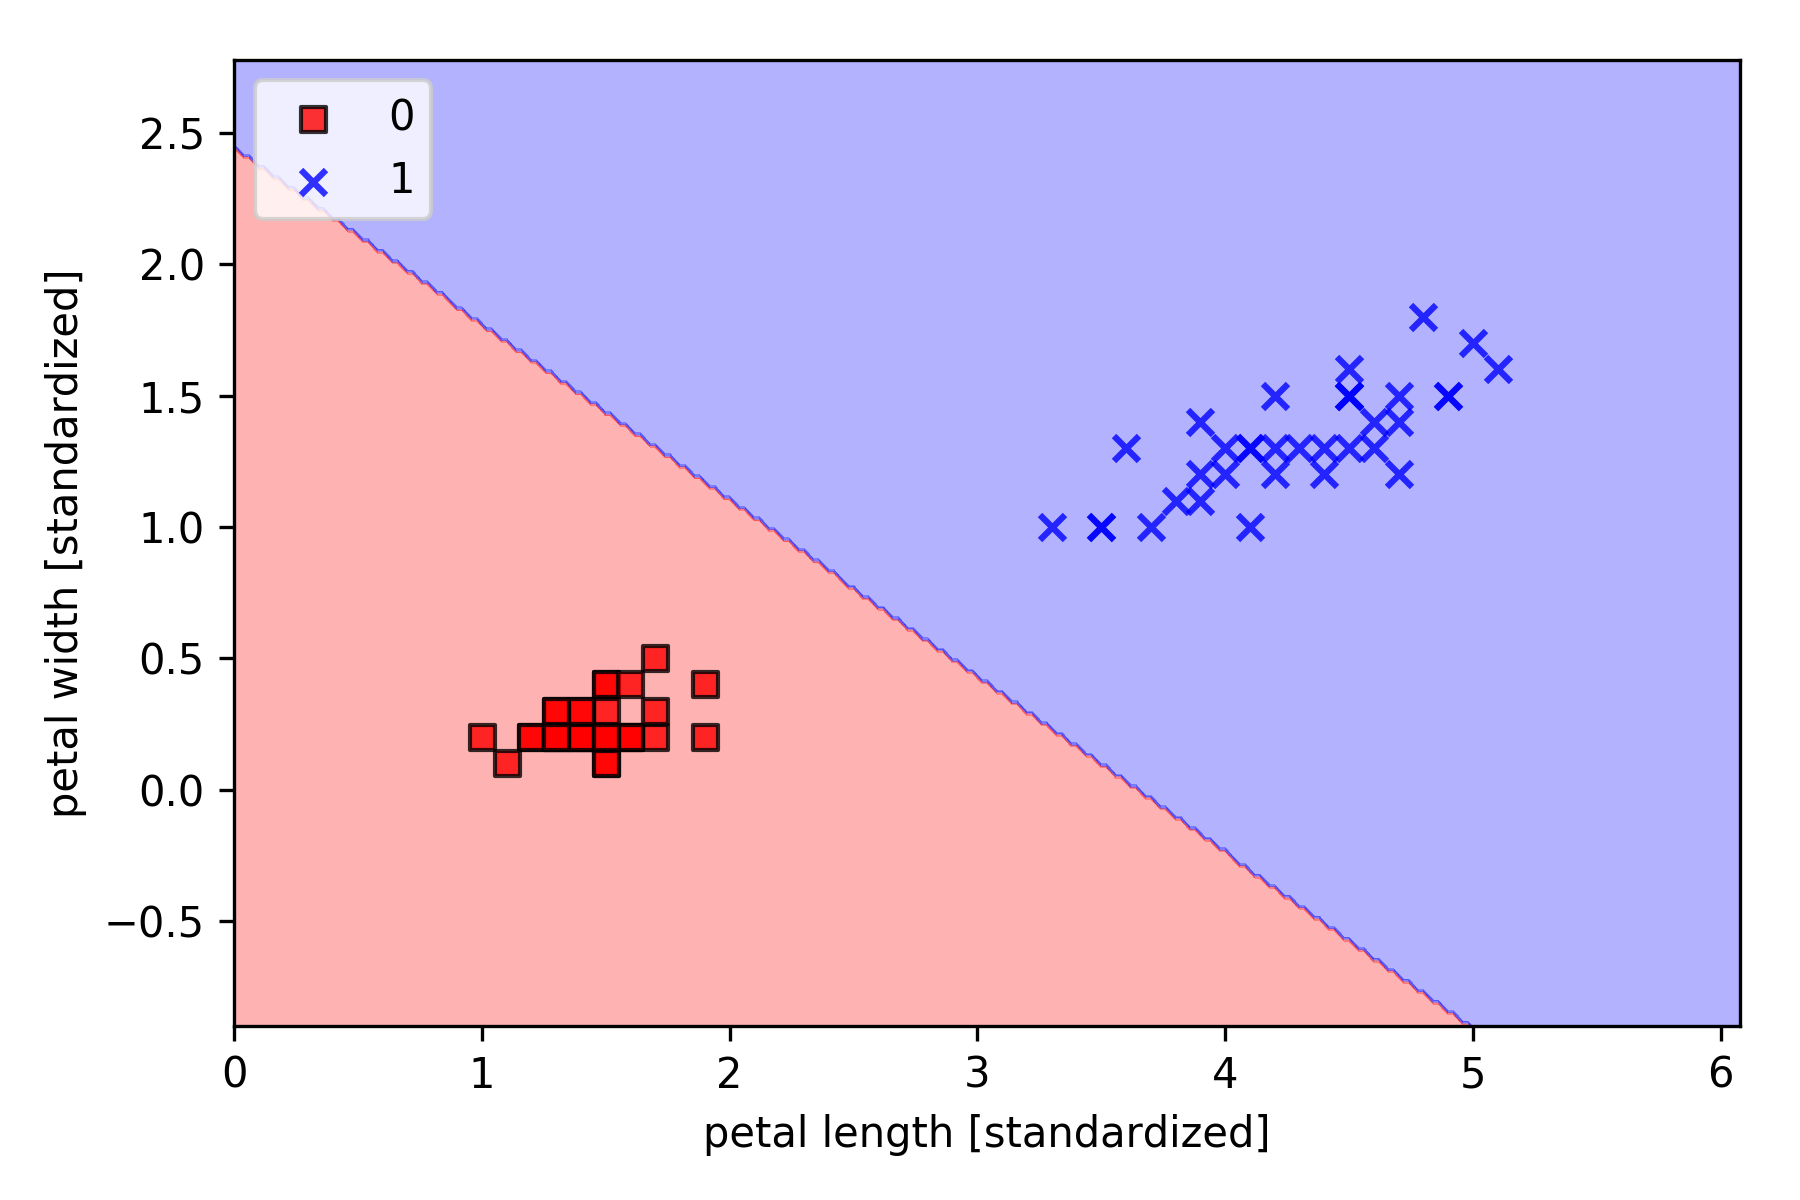
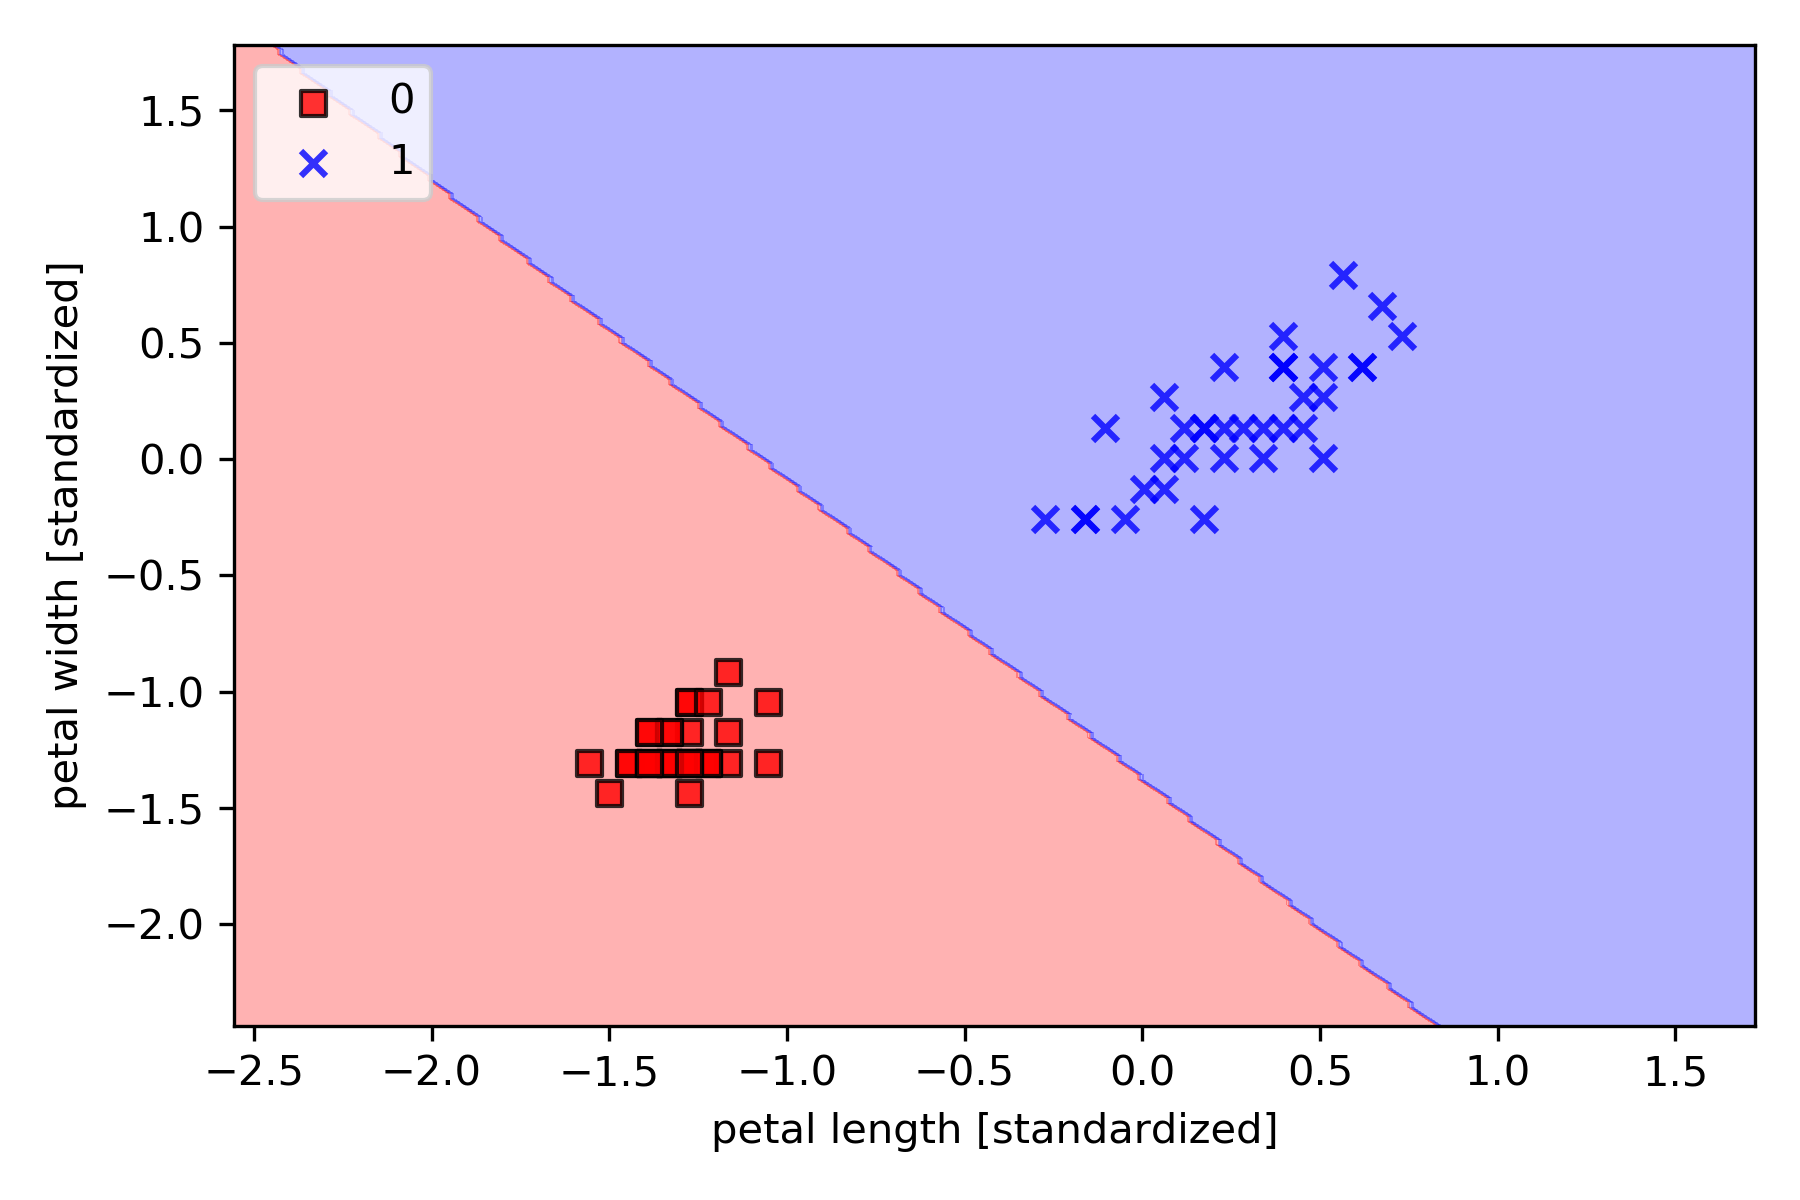
standardized data ch03

diff --git a/ch03/ch03.py b/ch03/ch03.py
@@ -363,7 +363,7 @@ class LogisticRegressionGD(object):
 
 
 
-X_train_01_subset = X_train[(y_train == 0) | (y_train == 1)]
+X_train_01_subset = X_train_std[(y_train == 0) | (y_train == 1)]
 y_train_01_subset = y_train[(y_train == 0) | (y_train == 1)]
 
 lrgd = LogisticRegressionGD(eta=0.05, n_iter=1000, random_state=1)
